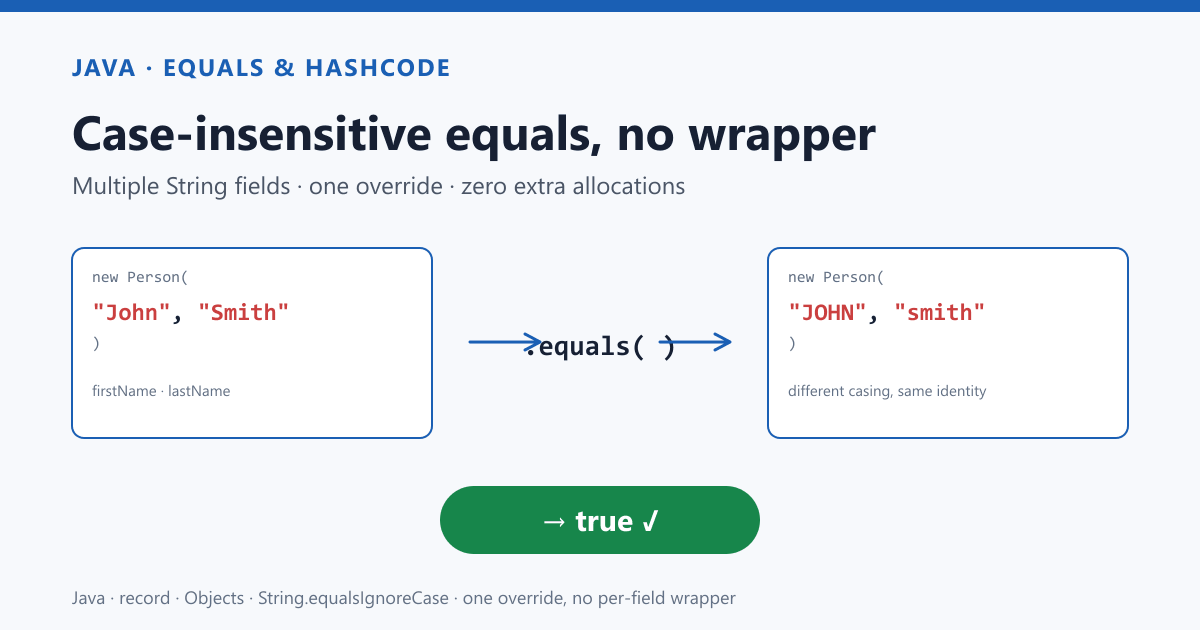
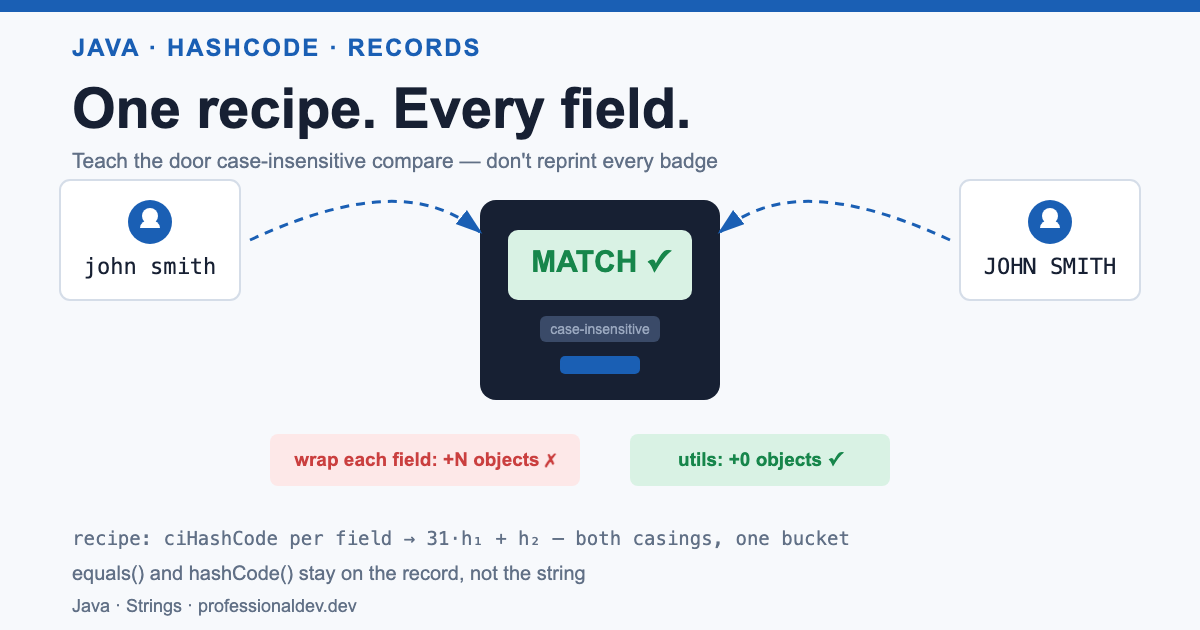
Door-scanner hero for multi-string case-insensitive post
- case_insenstive_hash_code: new adaptive hero (name badges → MATCH
  door, +N objects wrap vs +0 utils pills, ciHashCode recipe line),
  light/dark via prefers-color-scheme, fresh share.png, alt updated
- Removes 3 orphaned unreferenced images from the bundle

diff --git a/content/post/java/case_insenstive_hash_code/index.md b/content/post/java/case_insenstive_hash_code/index.md
@@ -5,7 +5,7 @@ draft: false
 usePageBundles: true
 description: "Case-insensitive comparison across multiple string fields of a class without wrapping each String. Memory-efficient alternatives to the custom-wrapper pattern."
 featureImage: 'case-insensitive-hash-code.svg' # Technical SVG: two Person records differing in case compared with .equals() returning true.
-featureImageAlt: 'Diagram: two Java Person records — "John Smith" and "JOHN smith" — compared with .equals() returning true, demonstrating case-insensitive equality on multiple String fields with no per-field wrapper class.'
+featureImageAlt: 'Card showing two name badges — "john smith" and "JOHN SMITH" — both scanning MATCH on a case-insensitive door, with wrapping each field costing +N objects versus class utils costing +0 — "One recipe. Every field."'
 shareImage: 'share.png' # 1200x630 PNG rendered from the featureImage SVG.
 tags: ["java", "hashMap", "strings"]
 categories: [ "java"]
